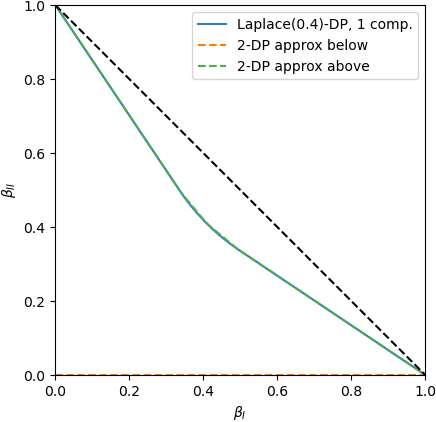
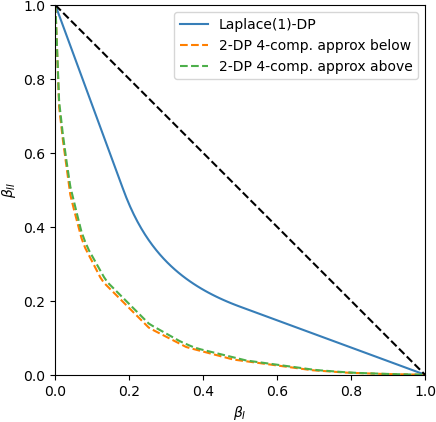
plots for n DP comp approx of laplace

diff --git a/src/main.py b/src/main.py
@@ -692,21 +692,70 @@ def multidp_example_multi_vs_double(eps_ls, delta_ls, k, title):
     )
 
 
-def laplace_multidp_approx(eps, n, k, title):
+def laplace_multidp_comp_approx(eps, n, k, title):
     f_lap = LaplaceTradeoff(eps)
 
     f_below = multi_dp_approx_below(f_lap, n)
     f_above = multi_dp_approx_above(f_lap, n)
 
-    f_lap_comp = LaplaceTradeoff(k * eps)
+    f_lap_comp = LaplaceTradeoff(eps)
     f_below_comp = privacy_region_composition_multi_dp(f_below.get_eps_list(), f_below.get_delta_list(), k)
     f_above_comp = privacy_region_composition_multi_dp(f_above.get_eps_list(), f_above.get_delta_list(), k)
 
     plot_multiple_functions(
-        [f_lap_comp, f_below_comp, f_above_comp],
-        [f"Laplace({eps})-DP, {k} comp.", f"{n}-DP approx below", f"{n}-DP approx above"],
-        ["solid", "dashed", "dashed"],
+        [
+         f_lap_comp,
+         f_below_comp,
+         f_above_comp
+        ],
+        [
+            f"Laplace({eps})-DP",
+            f"{n}-DP {k}-comp. approx below",
+            f"{n}-DP {k}-comp. approx above"
+        ],
+
+    ["solid",
+         "dashed",
+         "dashed"
+        ],
         save_to=png(title)
+    )
+
+def laplace_n_dp_approx(n, mu=1):
+    """
+    Compare n-DP approximations of Laplace-DP.
+    """
+    lap = LaplaceTradeoff(mu)
+    below_approx = multi_dp_approx_below(lap, n)
+    above_approx = multi_dp_approx_above(lap, n)
+
+    eps_below = below_approx.get_eps_list()
+    delta_below = below_approx.get_delta_list()
+
+    eps_above = above_approx.get_eps_list()
+    delta_above = above_approx.get_delta_list()
+
+    f_below = [SingleEpsDeltaTradeoff(eps,delta) for eps, delta in zip(eps_below, delta_below)]
+    f_above = [SingleEpsDeltaTradeoff(eps, delta) for eps,delta in zip(eps_above, delta_above)]
+
+    f_arr = f_below + f_above + [lap]
+    colors = [COLOR_3] * len(f_below) + [COLOR_2] * len(f_above) + [COLOR_1]
+    linestyles = ["dashed"] * len(f_below) + ["dashed"] * len(f_above) + ["solid"]
+    title = f"laplace_{n}_dp_approx"
+
+    plot_multiple_functions(
+        f_arr = f_arr,
+        colors = colors,
+        linestyles = linestyles,
+        save_to=png(title)
+    )
+
+    plot_multiple_functions(
+        f_arr = [lap, below_approx, above_approx],
+        labels= [f"Laplace({mu})-DP", f"{n}-DP approx below", f"{n}-DP approx above"],
+        colors = [COLOR_1, COLOR_3, COLOR_2],
+        linestyles = ["solid", "dashed", "dashed"],
+        save_to=png(title + "_maxed")
     )
 
 if __name__ == "__main__":
@@ -735,4 +784,6 @@ if __name__ == "__main__":
     # doubledp_and_multidp_coincide(eps_1=0.3, delta_1=0.0, eps_2=0.15, delta_2=0.02, k_ls=[5],
     #                               title="double_and_multi_comparison")
     # multidp_example_multi_vs_double([0.3, 0.15, 0.04, 0.01], [0.0, 0.02, 0.05, 0.06], 5, "triple_vs_double")
-    laplace_multidp_approx(0.4, 2, 1, "laplace_2dp_comp_approx")
+    laplace_multidp_comp_approx(1, 3, 4, "laplace_3dp_comp_approx")
+    laplace_multidp_comp_approx(1, 2, 4, "laplace_2dp_comp_approx")
+    laplace_n_dp_approx(4)

diff --git a/src/multi_dp_mixture/piecewise_affine.py b/src/multi_dp_mixture/piecewise_affine.py
@@ -2,31 +2,46 @@ from base.definitions import *
 from base.real_function import RealFunction
 
 
-def keep_useful_lines(pairs):
+def keep_useful_lines(slopes: Array, intercepts: Array) -> Tuple[Array, Array]:
     """
-    Compute the upper convex hull of (slope, intercept) pairs.
+    Filters and returns useful lines based on their slopes and intercepts,
+    removing redundant ones that do not contribute to the convex hull.
     Assumes max-of-affines representation.
+
+    :param slopes: 1D array containing the slopes of the lines.
+    :type slopes: Array
+    :param intercepts: 1D array containing the intercepts of the lines.
+    :type intercepts: Array
+    :return: Tuple of useful slopes, then useful intercepts.
+    :rtype: Tuple[Array, Array]
     """
+    pairs = set(zip(slopes, intercepts))
+    points = sorted(list(pairs))
+    num_points = len(points)
 
-    points = sorted(set(pairs))
-    if len(points) <= 1:
-        return points
+    if num_points == 0:
+        return np.array([]), np.array([])
+    if num_points == 1:
+        return np.r_[points[0][0]], np.r_[points[0][1]]
 
-    hull = []
+    hull_useful_pairs = []
     for candidate_slope, candidate_intercept in points:
-        while len(hull) >= 2:
-            older_slope, older_intercept = hull[-2]
-            previous_slope, previous_intercept = hull[-1]
+        while len(hull_useful_pairs) >= 2:
+            older_slope, older_intercept = hull_useful_pairs[-2]
+            previous_slope, previous_intercept = hull_useful_pairs[-1]
 
             if ((previous_intercept - older_intercept) * (candidate_slope - previous_slope)
                     <= (candidate_intercept - previous_intercept) * (previous_slope - older_slope)):
-                hull.pop()
+                hull_useful_pairs.pop()
             else:
                 break
 
-        hull.append((candidate_slope, candidate_intercept))
+        hull_useful_pairs.append((candidate_slope, candidate_intercept))
 
-    return hull
+    useful_slopes = np.array([p[0] for p in hull_useful_pairs])
+    useful_intercepts = np.array([p[1] for p in hull_useful_pairs])
+
+    return useful_slopes, useful_intercepts
 
 class PiecewiseAffine(RealFunction):
     """
@@ -44,11 +59,7 @@ class PiecewiseAffine(RealFunction):
             domain_end: float = DEFAULT_DOMAIN_END,
             bounded: bool = False
     ):
-        pairs = list(zip(slopes, intercepts))
-        useful_pairs = keep_useful_lines(pairs)
-
-        self._slopes = np.array([p[0] for p in useful_pairs])
-        self._intercepts = np.array([p[1] for p in useful_pairs])
+        self._slopes, self._intercepts = keep_useful_lines(slopes, intercepts)
         self._slopes.flags.writeable = False
         self._intercepts.flags.writeable = False
 

diff --git a/src/main_theorems/heterogeneous_version.py b/src/main_theorems/heterogeneous_version.py
@@ -176,13 +176,12 @@ def privacy_region_composition_multi_dp(eps_ls: List[float], delta_ls: List[floa
     assert len(eps_ls) == len(delta_ls)
 
     # Keep only the active constraints and sort them by decreasing epsilon and increasing delta
-    ## TODO check correctness of NOT taking inverse slopes/offsets into account + check correct sorting
     slopes, intercepts = get_all_slopes_intercepts_from_eps_delta_ls(
         np.array(eps_ls), np.array(delta_ls), with_inverses=False
     )
-    useful_pairs = keep_useful_lines(list(zip(slopes, intercepts)))
-    eps_ls_reduced = slope_to_eps(np.array([p[0] for p in useful_pairs]))
-    delta_ls_reduced = intercept_to_delta(np.array([p[1] for p in useful_pairs]))
+    useful_slopes, useful_intercepts = keep_useful_lines(slopes, intercepts)
+    eps_ls_reduced = slope_to_eps(useful_slopes)
+    delta_ls_reduced = intercept_to_delta(useful_intercepts)
 
     n = len(eps_ls_reduced)
 
@@ -190,7 +189,7 @@ def privacy_region_composition_multi_dp(eps_ls: List[float], delta_ls: List[floa
     delta_tilde = 1 - ((1 - delta_1) ** k)
 
     sigmas = np.zeros_like(eps_ls_reduced)
-    sigmas[0] = 1-delta_1
+    sigmas[0] = 1
     for i in range(1, n):
         exp_eps_i_1 = np.exp(eps_ls_reduced[i-1])
         exp_eps_i = np.exp(eps_ls_reduced[i])
@@ -199,13 +198,12 @@ def privacy_region_composition_multi_dp(eps_ls: List[float], delta_ls: List[floa
 
         sigmas[i] = exp_eps_i_1 * (1-delta_i) - exp_eps_i * (1-delta_i_1) + (delta_i_1 - delta_i)
         sigmas[i] /= (exp_eps_i_1 - exp_eps_i)
-        sigmas[i] /= (1-delta_i_1)
+        sigmas[i] /= (1-delta_1)
 
     alphas = np.zeros_like(sigmas)
-    for i in range(1,n-1):
+    for i in range(n-1):
         alphas[i] = sigmas[i] - sigmas[i+1]
     alphas[-1] = sigmas[-1]
-    alphas[0] = 1 - alphas.sum()
 
     weights = [delta_tilde]
     functions: List[MultiEpsDeltaTradeoff] = [SingleEpsDeltaTradeoff(0, 1)]
@@ -214,6 +212,7 @@ def privacy_region_composition_multi_dp(eps_ls: List[float], delta_ls: List[floa
         j = np.array(j)
         weight = (1-delta_tilde) * __multinomial(j) * np.prod([alphas[i] ** j[i] for i in range(n)])
         weights.append(weight)
+
         eps_j_list = np.concatenate([np.repeat(eps_ls_reduced[i], j[i]) for i in range(n)])
         functions.append(heter_comp_generalized(eps_j_list, np.zeros_like(eps_j_list)))
 

diff --git a/src/f_dp_approximation/approximations.py b/src/f_dp_approximation/approximations.py
@@ -1,6 +1,7 @@
 from base.definitions import *
 from base.tradeoff_function import TradeOffFunction, NormalRotation
 from multi_dp_mixture.dp_functions import MultiEpsDeltaTradeoff
+from multi_dp_mixture.piecewise_affine import keep_useful_lines
 
 
 def __upper_approx_golden_section(
@@ -156,7 +157,7 @@ def multi_dp_approx_below(f: TradeOffFunction, n: int) -> MultiEpsDeltaTradeoff:
 
         slopes[i-1], offsets[i-1] = NormalRotation.slope_offset_rotation_inversion(slope, offset)
         i += 1
-    return MultiEpsDeltaTradeoff.from_slopes_and_offsets(slopes, offsets)
+    return MultiEpsDeltaTradeoff.from_slopes_and_offsets(*keep_useful_lines(slopes, offsets))
 
 
 def multi_dp_approx_above(f: TradeOffFunction, n: int) -> MultiEpsDeltaTradeoff:
@@ -189,7 +190,7 @@ def multi_dp_approx_above(f: TradeOffFunction, n: int) -> MultiEpsDeltaTradeoff:
         offsets[i] = offset
         i += 1
 
-    return MultiEpsDeltaTradeoff.from_slopes_and_offsets(slopes, offsets)
+    return MultiEpsDeltaTradeoff.from_slopes_and_offsets(*keep_useful_lines(slopes, offsets))
 
 
 

diff --git a/src/multi_dp_mixture/dp_functions.py b/src/multi_dp_mixture/dp_functions.py
@@ -25,7 +25,7 @@ def slope_to_eps(slope: Array) -> Array:
     :return: The computed epsilon value obtained from the given slope.
     :rtype: Array
     """
-    return np.log(-slope)
+    return np.clip(np.log(-slope), 0, None)
 
 def delta_to_intercept(delta: Array) -> Array:
     """
@@ -47,7 +47,7 @@ def intercept_to_delta(inter: Array) -> Array:
     :return: The resulting delta value.
     :rtype: Array
     """
-    return 1-inter
+    return np.clip(1-inter, 0, 1)
 
 def get_all_slopes_intercepts_from_eps_delta_ls(eps_ls: Array, delta_ls: Array, with_inverses=True) -> Tuple[Array, Array]:
     """
